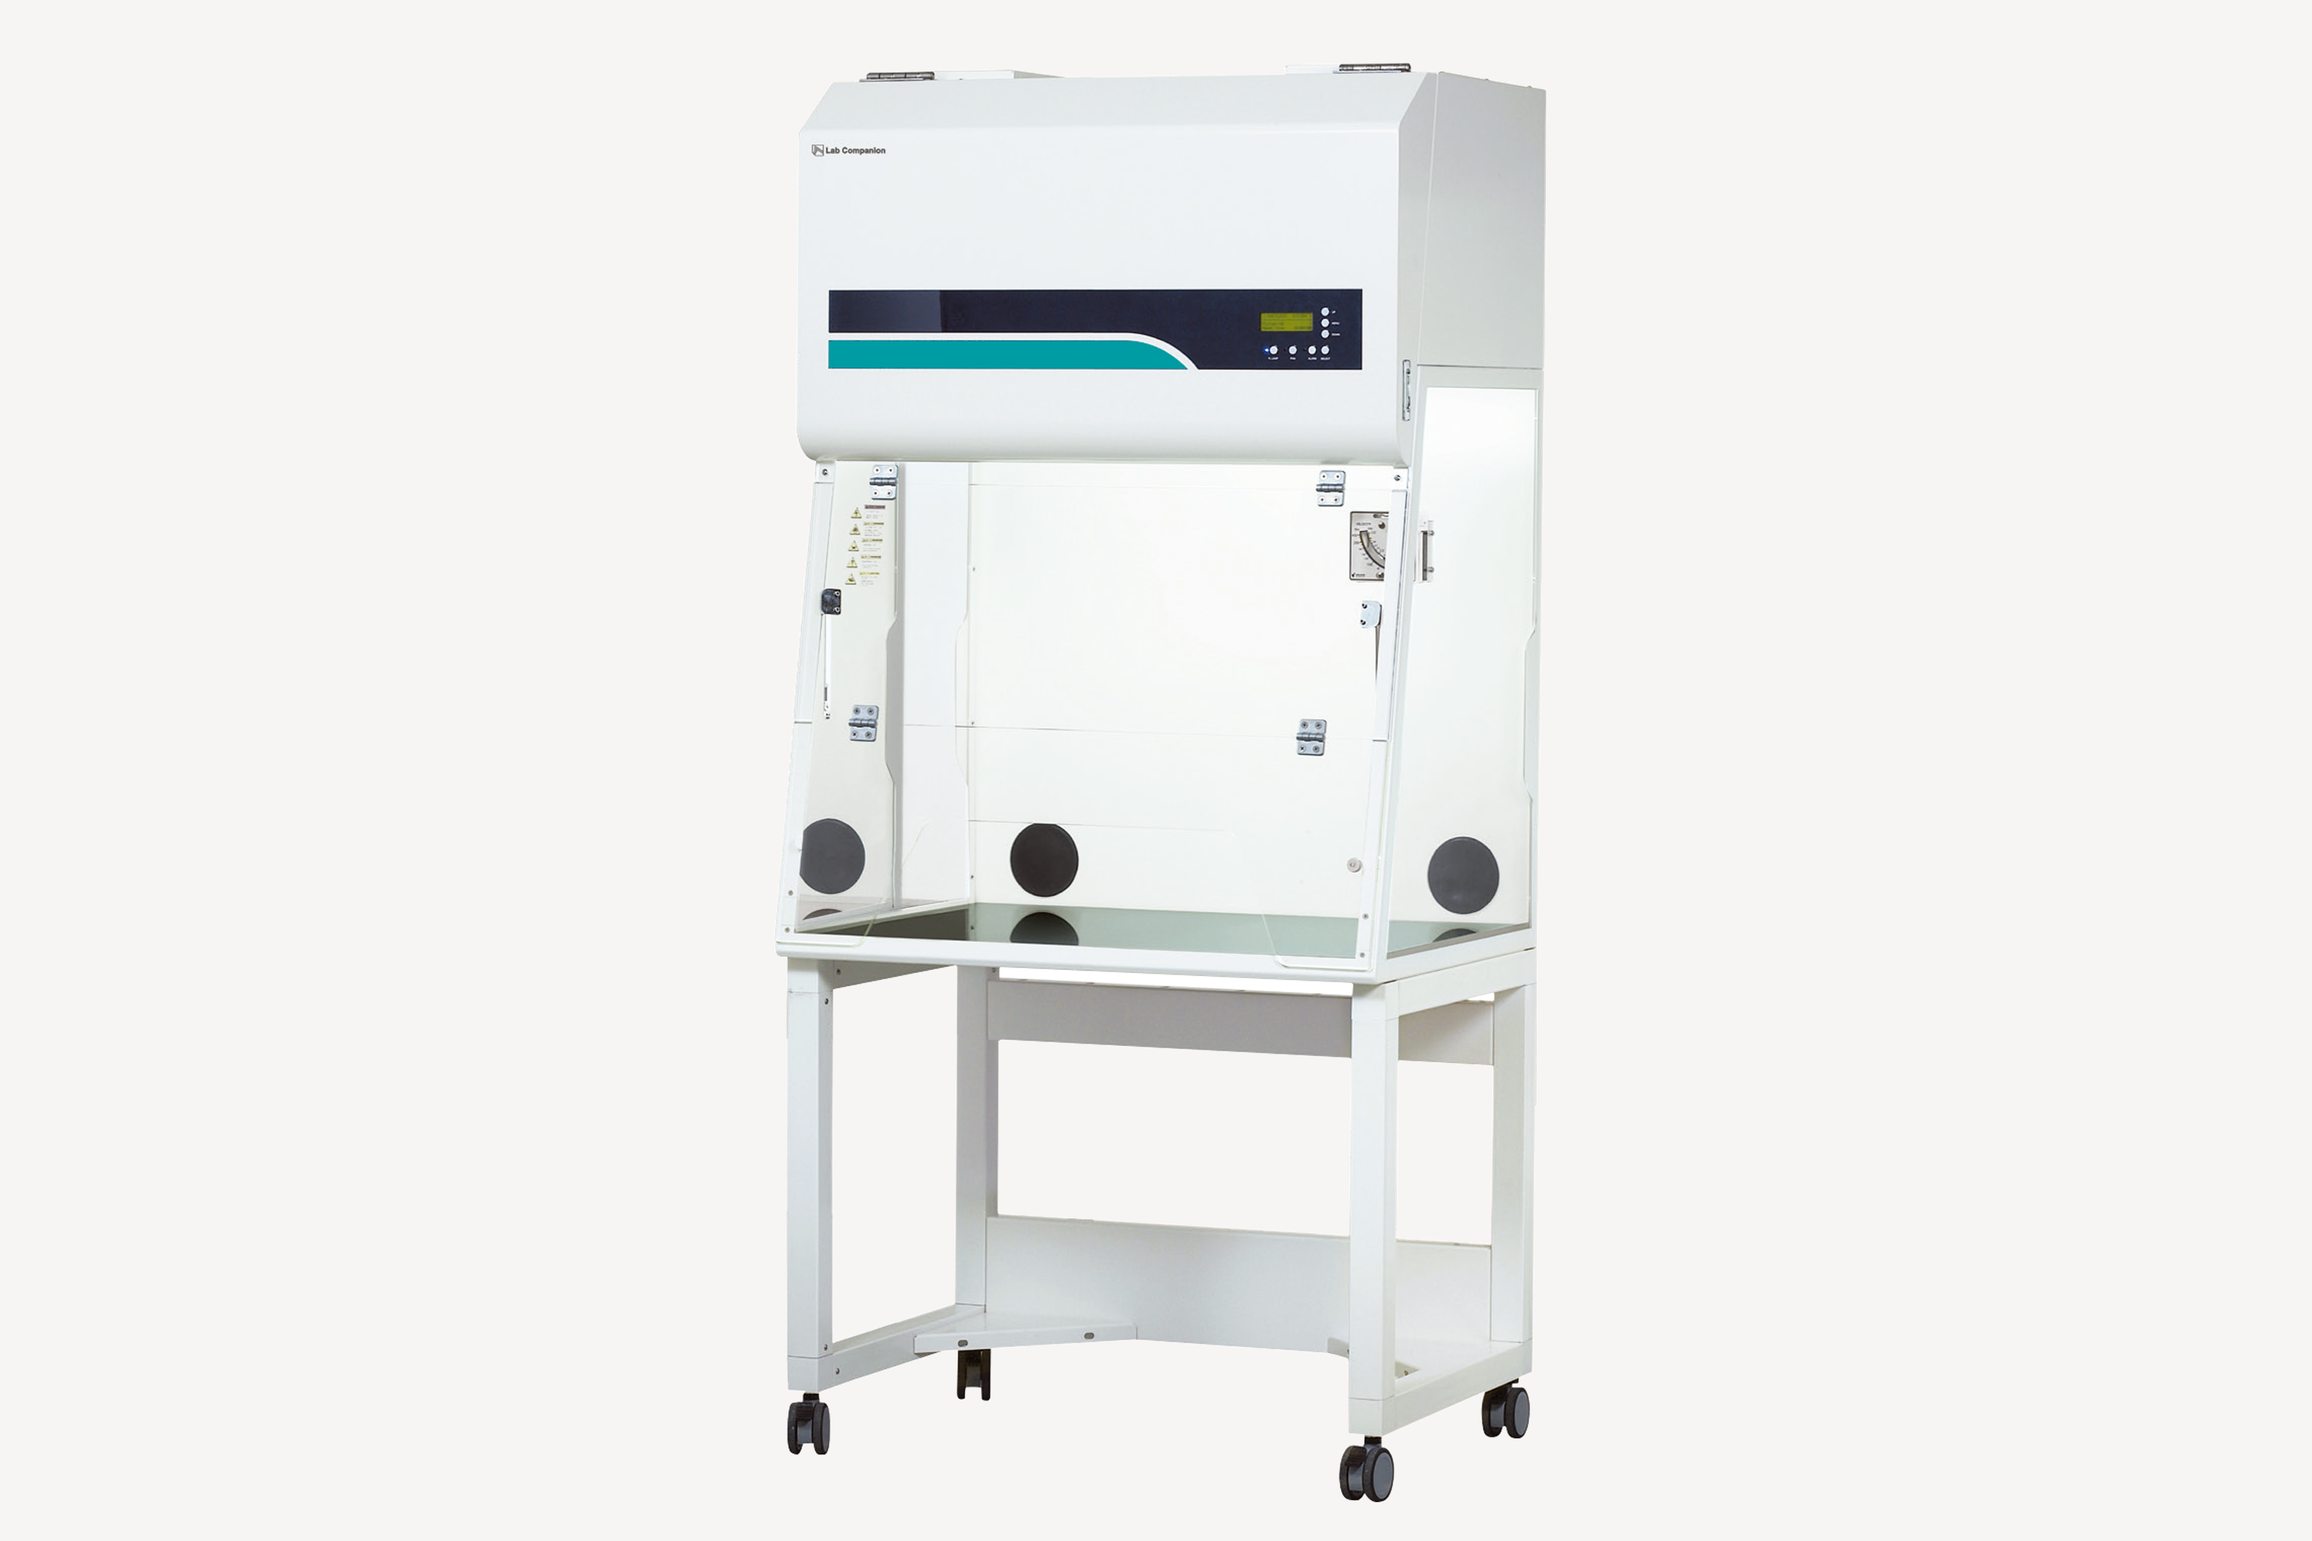
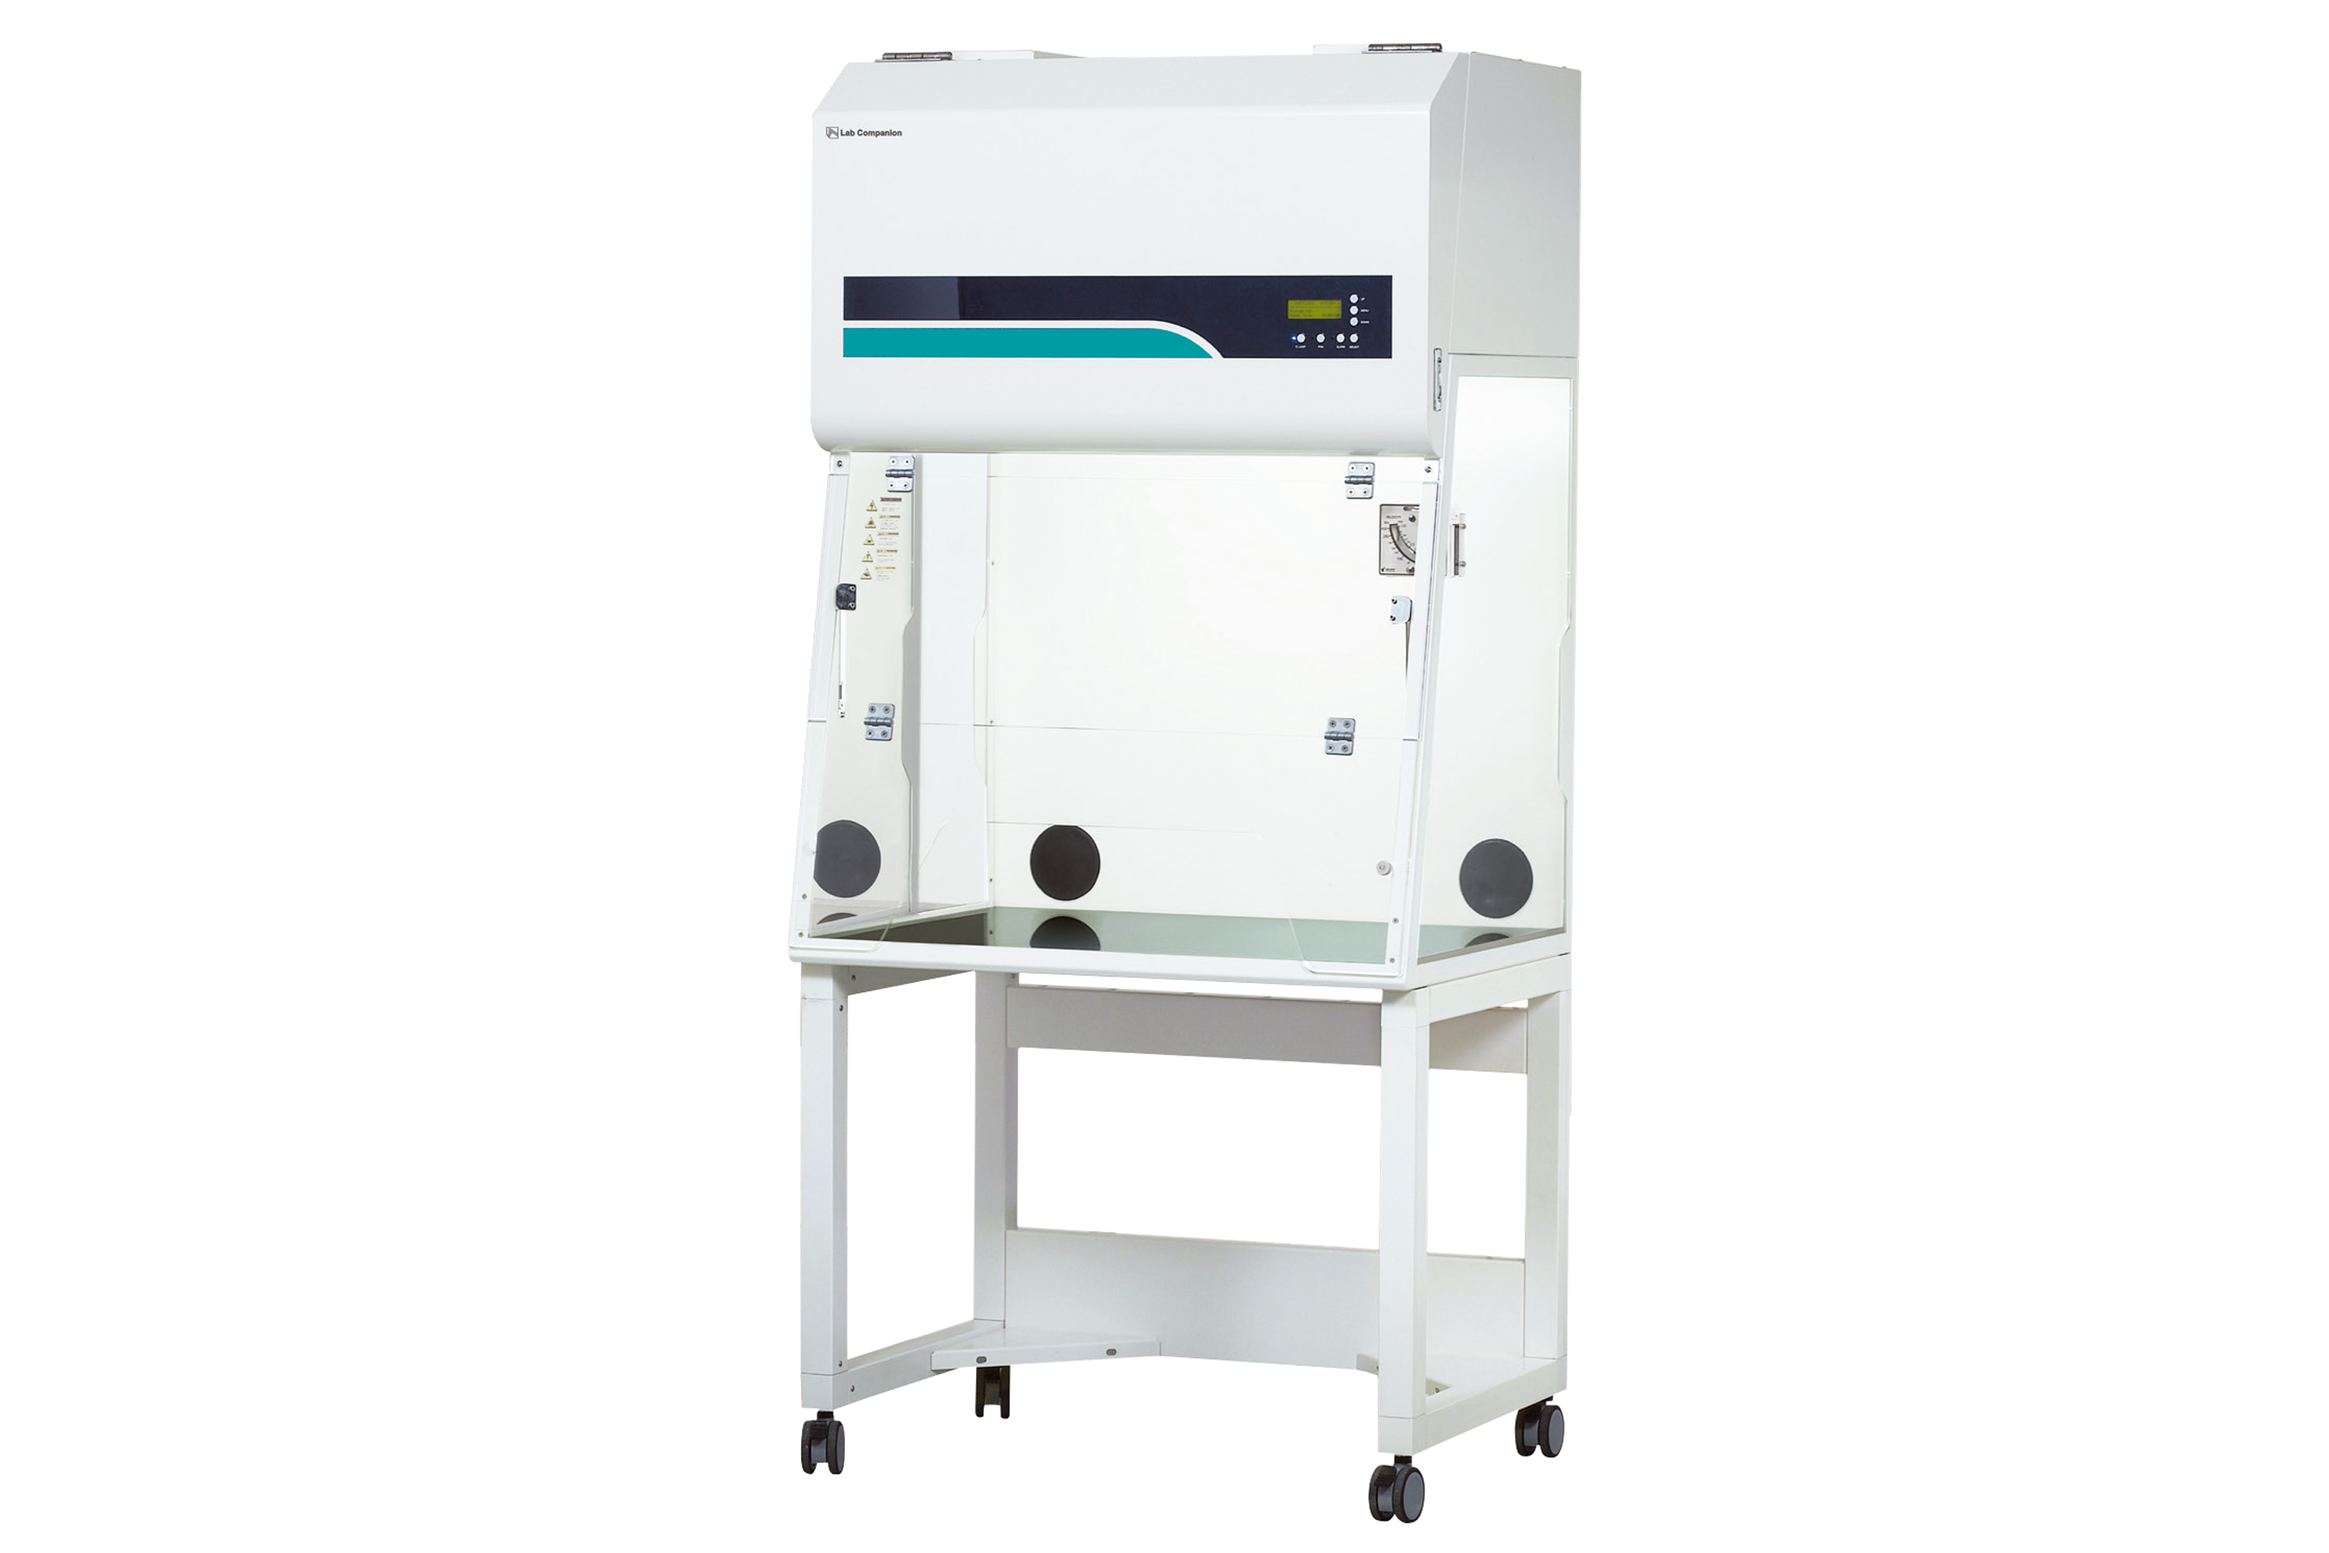
장비 이미지 교체

diff --git a/src/config/centerInfo.js b/src/config/centerInfo.js
@@ -29,7 +29,7 @@ import sec3img51 from "../images/resource/subjects/sec3/5-1.jpg";
 import sec3img52 from "../images/kj/입원실애기.png";
 import sec3img53 from "../images/kj/대화.png";
 
-import sec3img2 from "../images/kj/배경제거.png";
+import sec3img2 from "../images/kj/마취장비.png";
 // import sec3img3 from "../images/resource/images/263A9166.png";
 import sec3img3 from "../images/kj/대화.png";
 // import sec3img33 from "../images/resource/images/263A9154.png";
